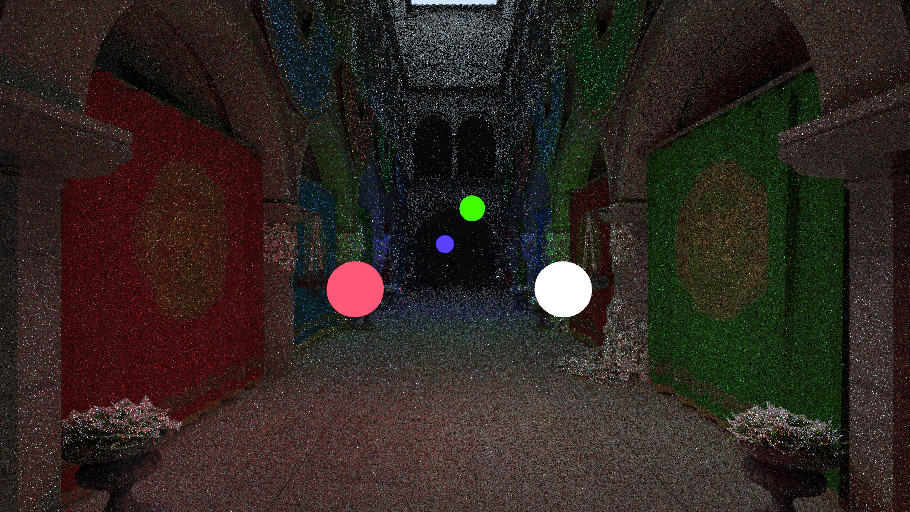
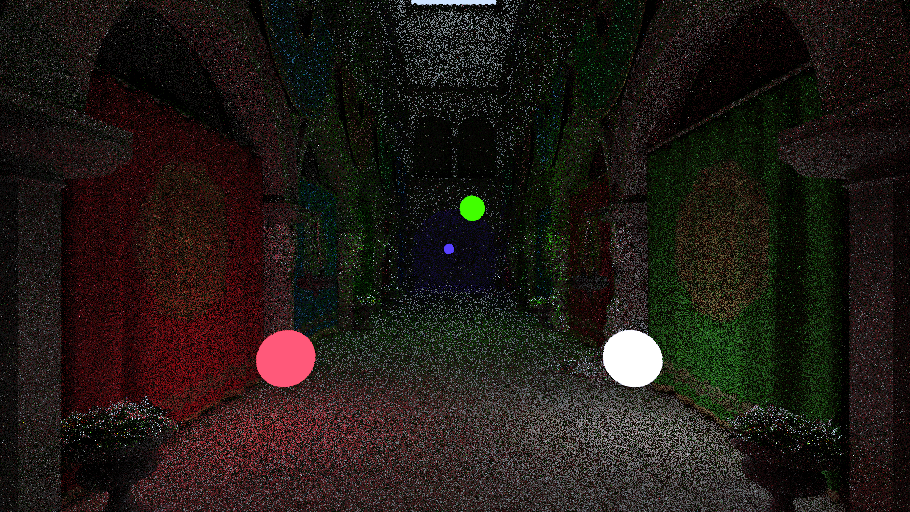
Back scattered_pdf

diff --git a/src/engine/renderer.rs b/src/engine/renderer.rs
@@ -52,15 +52,14 @@ impl Renderer {
 
             let hit_result = hit_result_option.unwrap();
 
-            let (mut sample, scatter_option, scattered_pdf) = hit_result.material.scatter(&ray, &hit_result);
+            let (mut sample, scattering_pdf_option) = hit_result.material.scatter(&ray, &hit_result);
             let emmission = hit_result.material.emit(&ray, &hit_result);
 
-            if scatter_option.is_some() {
-                let mut scatter = scatter_option.unwrap();
+            if scattering_pdf_option.is_some() {
+                let pdf = scattering_pdf_option.unwrap();
 
-                let mut cosine_pdf = Rc::new(CosinePDF::new(hit_result.normal));
-
-                let mut pdf = 0.0;
+                let mut scatter = Vec3A::ZERO;
+                let mut pdf_value = 0.0;
 
                 if lights.len() > 0 {
                     let mut pdfs: Vec<Rc::<dyn PDF>> = Vec::new();
@@ -78,20 +77,23 @@ impl Renderer {
                         weights: weights});
 
                     let final_pdf = MixPDF{ 
-                        pdfs: vec![cosine_pdf.clone(), light_pdf.clone()],
+                        pdfs: vec![pdf.clone(), light_pdf.clone()],
                         weights: vec![0.5, 0.5]};
 
                     scatter = final_pdf.generate();
-                    pdf = final_pdf.value(scatter);
+                    pdf_value = final_pdf.value(scatter);
                 }
                 else {
-                    scatter = cosine_pdf.generate();
-                    pdf = cosine_pdf.value(scatter);
+                    scatter = pdf.generate();
+                    pdf_value = pdf.value(scatter);
                 }
 
-                ray = Ray{origin : hit_result.position, direction : scatter};
+                let scattering_ray = Ray{origin : hit_result.position, direction : scatter};
+                let scattering_pdf_value = hit_result.material.scattering_pdf(&ray, &hit_result, &scattering_ray);
 
-                sample = sample * scattered_pdf / pdf;
+                sample = sample * scattering_pdf_value / pdf_value;
+
+                ray = scattering_ray;
             } else {
                 return average_sample * emmission;
             }

diff --git a/src/engine/scene.rs b/src/engine/scene.rs
@@ -458,22 +458,22 @@ impl Scene {
             UVMaterial{diffuse: DiffuseMaterial{}}
         );
         let diffuse_light_material1 = Arc::new(
-            DiffuseLightMaterial{color: Vec3A::new(1.7, 0.1, 0.2)}
+            DiffuseLightMaterial{color: Vec3A::new(1.4, 0.1, 0.2)}
         );
         let diffuse_light_material2 = Arc::new(
-            DiffuseLightMaterial{color: Vec3A::new(0.05, 1.6, 0.0)}
+            DiffuseLightMaterial{color: Vec3A::new(0.05, 1.3, 0.0)}
         );
         let diffuse_light_material3 = Arc::new(
-            DiffuseLightMaterial{color: Vec3A::new(1.5, 1.5, 1.5)}
+            DiffuseLightMaterial{color: Vec3A::new(1.2, 1.2, 1.5)}
         );
         let diffuse_light_material4 = Arc::new(
-            DiffuseLightMaterial{color: Vec3A::new(0.1, 0.05, 2.5)}
+            DiffuseLightMaterial{color: Vec3A::new(0.1, 0.05, 1.5)}
         );
 
-        let sphere1 = Arc::new(Sphere{material: diffuse_light_material1.clone(), radius : 0.2, position : Vec3A::new(-6.5, 1.0, -1.0)});
+        let sphere1 = Arc::new(Sphere{material: diffuse_light_material1.clone(), radius : 0.2, position : Vec3A::new(-6.5, 0.5, -1.5)});
         let sphere2 = Arc::new(Sphere{material: diffuse_light_material2.clone(), radius : 0.2, position : Vec3A::new(-2.5, 2.0, 0.0)});
-        let sphere3 = Arc::new(Sphere{material: diffuse_light_material3.clone(), radius : 0.2, position : Vec3A::new(-6.5, 1.0, 0.5)});
-        let sphere4 = Arc::new(Sphere{material: diffuse_light_material4.clone(), radius : 0.2, position : Vec3A::new(2.5, 1.5, -0.5)});
+        let sphere3 = Arc::new(Sphere{material: diffuse_light_material3.clone(), radius : 0.2, position : Vec3A::new(-6.5, 0.5, 1.0)});
+        let sphere4 = Arc::new(Sphere{material: diffuse_light_material4.clone(), radius : 0.2, position : Vec3A::new(8.0, 1.5, -0.5)});
 
         self.lights.push(sphere1.clone());
         self.geometry.push(sphere1.clone());

diff --git a/src/engine/material/pbr_metallic_roughness.rs b/src/engine/material/pbr_metallic_roughness.rs
@@ -101,7 +101,7 @@ pub fn reflect(eye: Vec3A, normal: Vec3A) -> Vec3A {
 }
 
 impl Material for PBRMetallicRoughnessMaterial {
-    fn scatter(&self, ray: &Ray, hit_result : &HitResult) -> (Vec3A, Option<Vec3A>, f32) {
+    fn scatter(&self, ray: &Ray, hit_result : &HitResult) -> (Vec3A, Option<Rc<dyn PDF>>) {
         let mut albedo = Vec4::ONE;
         albedo *= self.base_color_factor;
         albedo = albedo * self.base_color_texture.sample(
@@ -109,7 +109,7 @@ impl Material for PBRMetallicRoughnessMaterial {
             self.base_color_texture.texture.get_uv_by_index(&hit_result.uvs)
         );        
 
-        let (_, mut scattering_direction, scattered_pdf) = self.diffuse.scatter(&ray, &hit_result);
+        let (_, mut scattering_pdf) = self.diffuse.scatter(&ray, &hit_result);
 
         let light_vector = Vec3A::new(0.0, 0.0, 1.0);
 
@@ -119,10 +119,13 @@ impl Material for PBRMetallicRoughnessMaterial {
 
         if albedo.w < 0.99 {
             sample = Vec4::ONE;
-            scattering_direction = Some(ray.direction);
         }
 
-        return (Vec3A::from(sample), scattering_direction, scattered_pdf);
+        return (Vec3A::from(sample), scattering_pdf);
+    }
+
+    fn scattering_pdf(&self, ray: &Ray, hit_result : &HitResult, scattering: &Ray) -> f32 {
+        self.diffuse.scattering_pdf(&ray, &hit_result, &scattering)
     }
 
     fn emit(&self, ray: &Ray, hit_result : &HitResult) -> Vec3A {

diff --git a/src/engine/material/diffuse.rs b/src/engine/material/diffuse.rs
@@ -5,21 +5,23 @@ use crate::engine::geometry::traceable::*;
 use crate::engine::math::utils::*;
 use crate::engine::onb::*;
 
+use super::pdf::cosine::CosinePDF;
+
 pub struct DiffuseMaterial {
     
 }
 
 impl Material for DiffuseMaterial {
-    fn scatter(&self, ray: &Ray, hit_result : &HitResult) -> (Vec3A, Option<Vec3A>, f32) {
+    fn scatter(&self, ray: &Ray, hit_result : &HitResult) -> (Vec3A, Option<Rc<dyn PDF>>) {
         let onb = ONB::build_from_z(hit_result.normal);
-        let scattering_direction = onb.get_position(random_cosine_direction()).normalize();
 
-        // Scattered PDF
-        let cosine = hit_result.normal.dot(scattering_direction);
+        (Vec3A::ONE, Some(Rc::new(CosinePDF::new(hit_result.normal))))
+    }
+
+    fn scattering_pdf(&self, ray: &Ray, hit_result : &HitResult, scattering: &Ray) -> f32 {
+        let cosine = hit_result.normal.dot(scattering.direction);
         let scattered_pdf =  if cosine < 0.0 {0.0} else {cosine / std::f32::consts::PI};
-        //
-
-        (Vec3A::ONE, Some(scattering_direction), scattered_pdf)
+        scattered_pdf
     }
 
     fn emit(&self, ray: &Ray, hit_result : &HitResult) -> Vec3A {

diff --git a/src/engine/material/refraction.rs b/src/engine/material/refraction.rs
@@ -4,6 +4,8 @@ use crate::engine::geometry::traceable::*;
 use crate::engine::math::ray::*;
 use glam::{Vec3A};
 
+use super::pdf::cosine::CosinePDF;
+
 #[derive(Copy, Clone)]
 pub enum RefractionType {
     Air,
@@ -38,11 +40,15 @@ fn refract(ray: &Ray, hit_result: &HitResult, ior: f32) -> Vec3A {
 }
 
 impl Material for RefractionMaterial {
-    fn scatter(&self, ray: &Ray, hit_result : &HitResult) -> (Vec3A, Option<Vec3A>, f32) {
+    fn scatter(&self, ray: &Ray, hit_result : &HitResult) -> (Vec3A, Option<Rc<dyn PDF>>) {
         let ior = ior(self.refraction_type, hit_result.front_face);
 
-        let direction = refract(ray, hit_result, ior);
-        (Vec3A::ONE, Some(direction.normalize()), 1.0)
+        let direction = refract(ray, hit_result, ior).normalize();
+        (Vec3A::ONE, Some(Rc::new(CosinePDF::new(direction))))
+    }
+
+    fn scattering_pdf(&self, ray: &Ray, hit_result : &HitResult, scattering: &Ray) -> f32 {
+        1.0
     }
 
     fn emit(&self, ray: &Ray, hit_result : &HitResult) -> Vec3A {

diff --git a/src/engine/material/metal.rs b/src/engine/material/metal.rs
@@ -5,6 +5,8 @@ use crate::engine::math::ray::*;
 use crate::engine::math::utils::*;
 use glam::{Vec3A};
 
+use super::pdf::cosine::CosinePDF;
+
 pub struct MetalMaterial {
     pub metalness: f32,
 }
@@ -14,9 +16,13 @@ pub fn reflect(eye: Vec3A, normal: Vec3A) -> Vec3A {
 }
 
 impl Material for MetalMaterial {
-    fn scatter(&self, ray: &Ray, hit_result : &HitResult) -> (Vec3A, Option<Vec3A>, f32) {
+    fn scatter(&self, ray: &Ray, hit_result : &HitResult) -> (Vec3A, Option<Rc<dyn PDF>>) {
         let direction = reflect(ray.direction, hit_result.normal) + (1.0 - self.metalness) * random_in_unit_sphere();
-        (Vec3A::ONE, Some(direction.normalize()), 1.0)
+        (Vec3A::ONE, Some(Rc::new(CosinePDF::new(direction.normalize()))))
+    }
+
+    fn scattering_pdf(&self, ray: &Ray, hit_result : &HitResult, scattering: &Ray) -> f32 {
+        1.0
     }
 
     fn emit(&self, ray: &Ray, hit_result : &HitResult) -> Vec3A {

diff --git a/src/engine/material/uv.rs b/src/engine/material/uv.rs
@@ -11,11 +11,15 @@ pub struct UVMaterial {
 }
 
 impl Material for UVMaterial {
-    fn scatter(&self, ray: &Ray, hit_result : &HitResult) -> (Vec3A, Option<Vec3A>, f32) {
-        let (_, scattering_direction, scattered_pdf) = self.diffuse.scatter(&ray, &hit_result);
+    fn scatter(&self, ray: &Ray, hit_result : &HitResult) -> (Vec3A, Option<Rc<dyn PDF>>) {
+        let (_, scattering_direction) = self.diffuse.scatter(&ray, &hit_result);
 
         let sample = Vec3A::new(hit_result.uvs[0].x, hit_result.uvs[0].y, 1.0 - hit_result.uvs[0].x - hit_result.uvs[0].y);
-        (sample, scattering_direction, scattered_pdf)
+        (sample, scattering_direction)
+    }
+
+    fn scattering_pdf(&self, ray: &Ray, hit_result : &HitResult, scattering: &Ray) -> f32 {
+        self.diffuse.scattering_pdf(&ray, &hit_result, &scattering)
     }
 
     fn emit(&self, ray: &Ray, hit_result : &HitResult) -> Vec3A {

diff --git a/src/engine/material/normal.rs b/src/engine/material/normal.rs
@@ -12,10 +12,14 @@ pub struct NormalMaterial {
 }
 
 impl Material for NormalMaterial {
-    fn scatter(&self, ray: &Ray, hit_result : &HitResult) -> (Vec3A, Option<Vec3A>, f32) {
-        let (_, scattering_direction, scattered_pdf) = self.diffuse.scatter(&ray, &hit_result);
+    fn scatter(&self, ray: &Ray, hit_result : &HitResult) -> (Vec3A, Option<Rc<dyn PDF>>) {
+        let (_, scattering_direction) = self.diffuse.scatter(&ray, &hit_result);
         let sample =  0.5 * (hit_result.normal + Vec3A::ONE);
-        (sample, scattering_direction, scattered_pdf)
+        (sample, scattering_direction)
+    }
+
+    fn scattering_pdf(&self, ray: &Ray, hit_result : &HitResult, scattering: &Ray) -> f32 {
+        self.diffuse.scattering_pdf(&ray, &hit_result, &scattering)
     }
 
     fn emit(&self, ray: &Ray, hit_result : &HitResult) -> Vec3A {

diff --git a/src/engine/material/pbr.rs b/src/engine/material/pbr.rs
@@ -43,10 +43,14 @@ pub fn reflect(eye: Vec3A, normal: Vec3A) -> Vec3A {
 }
 
 impl Material for PBRMaterial {
-    fn scatter(&self, ray: &Ray, hit_result : &HitResult) -> (Vec3A, Option<Vec3A>, f32) {
-        let (sample, scatter_direction, scattered_pdf) = self.pbr_metallic_roughness.scatter(ray, hit_result);
+    fn scatter(&self, ray: &Ray, hit_result : &HitResult) -> (Vec3A, Option<Rc<dyn PDF>>) {
+        let (sample, scatter_direction) = self.pbr_metallic_roughness.scatter(ray, hit_result);
 
-        (sample, scatter_direction, scattered_pdf)
+        (sample, scatter_direction)
+    }
+
+    fn scattering_pdf(&self, ray: &Ray, hit_result : &HitResult, scattering: &Ray) -> f32 {
+        self.pbr_metallic_roughness.scattering_pdf(&ray, &hit_result, &scattering)
     }
 
     fn emit(&self, ray: &Ray, hit_result : &HitResult) -> Vec3A {

diff --git a/src/engine/material/diffuse_light.rs b/src/engine/material/diffuse_light.rs
@@ -1,16 +1,24 @@
+use std::rc::Rc;
+
 use crate::engine::material::*;
 
 use crate::engine::math::ray::*;
 use crate::engine::geometry::traceable::*;
 use crate::engine::math::utils::*;
 
+use super::pdf::PDF;
+
 pub struct DiffuseLightMaterial {
     pub color: Vec3A,
 }
 
 impl Material for DiffuseLightMaterial {
-    fn scatter(&self, ray: &Ray, hit_result : &HitResult) -> (Vec3A, Option<Vec3A>, f32) {
-        (Vec3A::ONE, None, 1.0)
+    fn scatter(&self, ray: &Ray, hit_result : &HitResult) -> (Vec3A, Option<Rc<dyn PDF>>) {
+        (Vec3A::ONE, None)
+    }
+
+    fn scattering_pdf(&self, ray: &Ray, hit_result : &HitResult, scattering: &Ray) -> f32 {
+        1.0
     }
 
     fn emit(&self, ray: &Ray, hit_result : &HitResult) -> Vec3A {

diff --git a/src/engine/material/mod.rs b/src/engine/material/mod.rs
@@ -13,12 +13,14 @@ use crate::engine::math::ray::*;
 use glam::{Vec3A};
 use crate::engine::geometry::traceable::*;
 
-use std::sync::{Arc};
+use std::{sync::{Arc}, rc::Rc};
+
+use self::pdf::PDF;
 
 pub trait Material {
     fn scatter(&self, ray: &Ray, hit_result : &HitResult) -> (
         Vec3A /* Attenuation */, 
-        Option<Vec3A> /* Scatter */,
-        f32 /* Scattered PDF */);
+        Option<Rc<dyn PDF>> /* Scatter */);
+    fn scattering_pdf(&self, ray: &Ray, hit_result : &HitResult, scattering: &Ray) -> f32;
     fn emit(&self, ray: &Ray, hit_result : &HitResult) -> Vec3A;
 }
